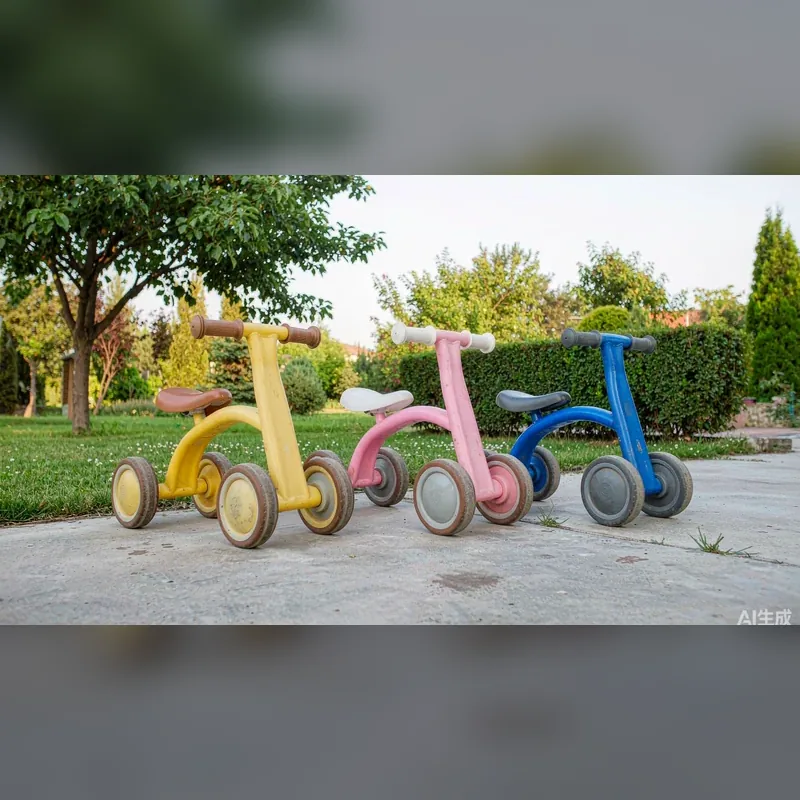
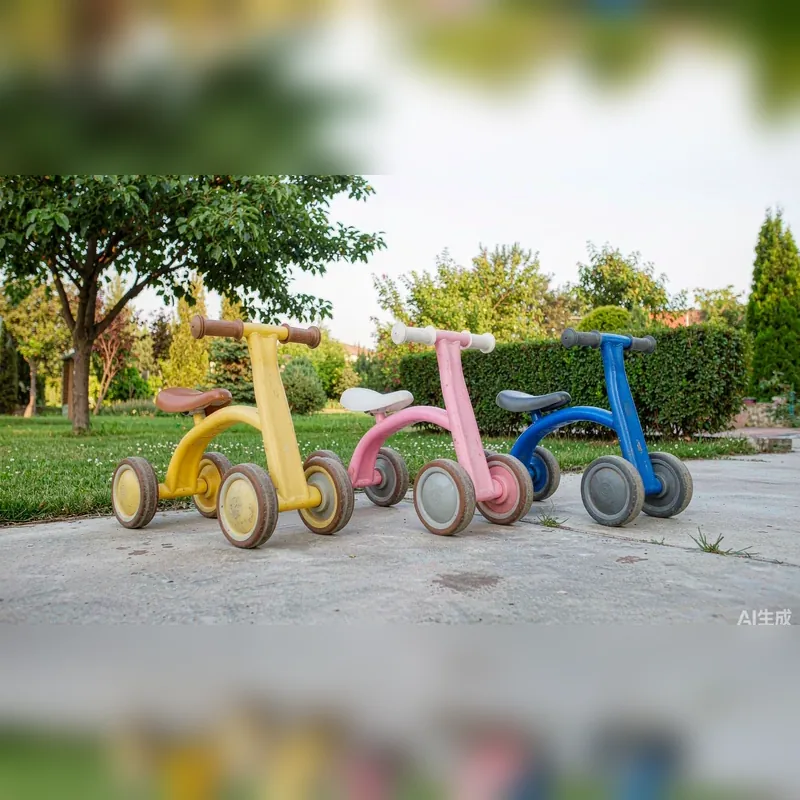
fix(images): never crop article art in the 1:1 frame
- News covers now fill the square with a mirror of the photo's own edge strip
  (blurred), instead of a scaled-cover bed: the sharp photo previously met a
  differently-framed blur at a hard horizontal seam, so every news cover read
  as though the top and bottom of the picture had been sliced off. The whole
  photo is preserved and the seam is gone.
- Article 1:1 frames use object-contain (SPA + prerender) so a square canvas
  can never crop the artwork; an off-square cover letterboxes instead.

diff --git a/scripts/prerender-pages.ts b/scripts/prerender-pages.ts
@@ -771,7 +771,9 @@ ${page.preloadImage ? `    <link rel="preload" as="image" href="${escapeHtml(pag
       /* Article card thumbnails. Every article list uses the same compact
          geometry as the SPA cards: a 1:1 side frame next to the text
          (104px on phones, up to 124px on wide screens). The covers are
-         800x800 squares, so object-cover fills the frame with no crop.
+         800x800 squares, so the frame is full; object-fit: contain guarantees
+         a 1:1 frame never crops the artwork (an off-square cover letterboxes
+         instead of being cut).
          Mirrors src/components/NewsSection.tsx and src/components/GuidesSection.tsx. */
       .article-card-thumb { flex: 0 0 clamp(96px, 22vw, 124px); }
       .article-card-thumb img { width: 100%; height: auto; aspect-ratio: 1 / 1; }
@@ -1042,7 +1044,7 @@ function renderZhHub(
       (item) => `
         <section class="article-card" style="padding: 14px 0; border-top: 1px solid #f1f5f9; display: flex; gap: 16px; align-items: flex-start;">
           ${item.image ? `<a class="article-card-thumb" href="${escapeHtml(item.path)}" style="display: block;">
-            <img src="${escapeHtml(item.image)}" alt="${escapeHtml(item.title)}" width="800" height="800" loading="lazy" decoding="async" style="width: 100%; height: auto; aspect-ratio: 1 / 1; object-fit: cover; border-radius: 10px; display: block;" />
+            <img src="${escapeHtml(item.image)}" alt="${escapeHtml(item.title)}" width="800" height="800" loading="lazy" decoding="async" style="width: 100%; height: auto; aspect-ratio: 1 / 1; object-fit: contain; border-radius: 10px; display: block;" />
           </a>` : ""}
           <div style="flex: 1 1 auto; min-width: 0;">
             <h2 style="margin: 0 0 8px; font-size: 1.05rem;"><a href="${escapeHtml(item.path)}">${escapeHtml(item.title)}</a></h2>
@@ -1679,7 +1681,7 @@ function renderGuideDetailPage(
         </p>
         ${summaryIntroHtml}
       </section>
-      ${image ? `<div style="padding: 0 0 18px;"><img src="${escapeHtml(image)}" alt="${escapeHtml(title)}" width="800" height="800" loading="eager" decoding="async" style="width: 100%; max-width: 384px; height: auto; aspect-ratio: 1 / 1; object-fit: cover; background: #ffffff; border-radius: 18px; border: 1px solid #e2e8f0; display: block;" /></div>` : ""}
+      ${image ? `<div style="padding: 0 0 18px;"><img src="${escapeHtml(image)}" alt="${escapeHtml(title)}" width="800" height="800" loading="eager" decoding="async" style="width: 100%; max-width: 384px; height: auto; aspect-ratio: 1 / 1; object-fit: contain; background: #ffffff; border-radius: 18px; border: 1px solid #e2e8f0; display: block;" /></div>` : ""}
       <section style="padding: 6px 0; border-top: 1px solid #e2e8f0;">
         ${renderRichContentHtml(content) || `<p style="margin: 0;">${escapeHtml(summary)}</p>`}
       </section>
@@ -1793,7 +1795,7 @@ function renderNewsDetailPage(
         <a href="${zh ? "/zh/news" : "/news"}">${zh ? ZH_ARTICLE_LABELS.newsHub : "News"}</a> › <a href="${zh ? `/zh/news/${escapeHtml(channel)}` : `/news/${escapeHtml(channel)}`}">${escapeHtml(channelLabel)}</a>
       </nav>
       ${image ? `<figure style="margin: 0 0 18px;">
-        <img src="${escapeHtml(image)}" alt="${escapeHtml(title)}" width="800" height="800" loading="eager" decoding="async" style="width: 100%; max-width: 384px; height: auto; aspect-ratio: 1 / 1; object-fit: cover; display: block; border-radius: 18px;" />
+        <img src="${escapeHtml(image)}" alt="${escapeHtml(title)}" width="800" height="800" loading="eager" decoding="async" style="width: 100%; max-width: 384px; height: auto; aspect-ratio: 1 / 1; object-fit: contain; display: block; border-radius: 18px;" />
       </figure>` : ""}
       <section style="padding: 4px 0 18px;">
         <p style="margin: 0 0 10px; font-size: 0.86rem; color: #475569; font-weight: 600;">
@@ -2134,7 +2136,7 @@ function renderGuidesPage(cmsGuides: CmsGuide[] = []): RoutePage {
         ${listedGuides.map((guide) => `
           <section class="article-card" style="padding: 14px 0; border-top: 1px solid #f1f5f9; display: flex; gap: 16px; align-items: flex-start;">
             ${guide.cover ? `<a class="article-card-thumb" href="${escapeHtml(new URL(guide.url).pathname)}" style="display: block;">
-              <img src="${escapeHtml(guide.cover)}" alt="${escapeHtml(guide.title)}" width="800" height="800" loading="lazy" decoding="async" style="width: 100%; height: auto; aspect-ratio: 1 / 1; object-fit: cover; background: #ffffff; border-radius: 10px; display: block;" />
+              <img src="${escapeHtml(guide.cover)}" alt="${escapeHtml(guide.title)}" width="800" height="800" loading="lazy" decoding="async" style="width: 100%; height: auto; aspect-ratio: 1 / 1; object-fit: contain; background: #ffffff; border-radius: 10px; display: block;" />
             </a>` : ""}
             <div style="flex: 1 1 auto; min-width: 0;">
               <h3 style="margin: 0 0 8px; font-size: 1.05rem;"><a href="${escapeHtml(new URL(guide.url).pathname)}">${escapeHtml(guide.title)}</a></h3>
@@ -2318,7 +2320,7 @@ function renderNewsPage(cmsNews: CmsNews[] = []): RoutePage {
         ${listedNews.map((item) => `
           <section class="article-card" style="padding: 14px 0; border-top: 1px solid #f1f5f9; display: flex; gap: 16px; align-items: flex-start;">
             ${item.cover ? `<a class="article-card-thumb" href="${escapeHtml(new URL(item.url).pathname)}" style="display: block;">
-              <img src="${escapeHtml(item.cover)}" alt="${escapeHtml(item.title)}" width="800" height="800" loading="lazy" decoding="async" style="width: 100%; height: auto; aspect-ratio: 1 / 1; object-fit: cover; border-radius: 10px; display: block;" />
+              <img src="${escapeHtml(item.cover)}" alt="${escapeHtml(item.title)}" width="800" height="800" loading="lazy" decoding="async" style="width: 100%; height: auto; aspect-ratio: 1 / 1; object-fit: contain; border-radius: 10px; display: block;" />
             </a>` : ""}
             <div style="flex: 1 1 auto; min-width: 0;">
               <h3 style="margin: 0 0 8px; font-size: 1.05rem;"><a href="${escapeHtml(new URL(item.url).pathname)}">${escapeHtml(item.title)}</a></h3>
@@ -2804,7 +2806,7 @@ function filterCardGrid(cards: FilterCard[], emptyNote: string): string {
             .map(
               (card) => `
             <a href="${escapeHtml(card.path)}" style="display: flex; gap: 12px; align-items: flex-start; border: 1px solid #e2e8f0; border-radius: 16px; padding: 14px; text-decoration: none; color: inherit; background: #ffffff;">
-              ${card.image ? `<span style="display: block; flex: 0 0 clamp(72px, 20vw, 108px);"><img src="${escapeHtml(card.image)}" alt="${escapeHtml(card.title)}" width="800" height="800" loading="lazy" decoding="async" style="width: 100%; height: auto; aspect-ratio: 1 / 1; object-fit: cover; background: #ffffff; border-radius: 10px; display: block;" /></span>` : ""}
+              ${card.image ? `<span style="display: block; flex: 0 0 clamp(72px, 20vw, 108px);"><img src="${escapeHtml(card.image)}" alt="${escapeHtml(card.title)}" width="800" height="800" loading="lazy" decoding="async" style="width: 100%; height: auto; aspect-ratio: 1 / 1; object-fit: contain; background: #ffffff; border-radius: 10px; display: block;" /></span>` : ""}
               <span style="display: block; flex: 1 1 auto; min-width: 0;">
                 <h3 style="margin: 0 0 8px; font-size: 1rem; color: #0f172a;">${escapeHtml(card.title)}</h3>
                 <p style="margin: 0 0 8px; font-size: 0.9rem; color: #334155;">${escapeHtml(card.summary)}</p>

diff --git a/src/components/GuidesSection.tsx b/src/components/GuidesSection.tsx
@@ -2102,7 +2102,7 @@ export default function GuidesSection({
                   height={800}
                   loading="eager"
                   decoding="async"
-                  className="w-full max-w-sm h-auto aspect-square object-cover bg-white rounded-3xl border border-slate-100 shadow-sm"
+                  className="w-full max-w-sm h-auto aspect-square object-contain bg-white rounded-3xl border border-slate-100 shadow-sm"
                   onError={(e) => { (e.currentTarget as HTMLImageElement).style.display = "none"; }}
                 />
               ) : null}
@@ -2476,8 +2476,10 @@ export default function GuidesSection({
                         cards use (104px on phones, 124px from sm up). The guide
                         covers are square product photos (800x800 now, cut from
                         the original 1500x1500 shot), so the image fills the
-                        frame with object-cover and the whole product - bars,
-                        seat, all four wheels - stays visible. */}
+                        frame and the whole product - bars, seat, all four
+                        wheels - stays visible. object-contain (not cover) is
+                        deliberate: a 1:1 frame must never crop the artwork, so
+                        even an off-square cover is letterboxed, never cut. */}
                     <div className="w-[104px] sm:w-[124px] shrink-0 self-start aspect-square rounded-2xl overflow-hidden border border-slate-100 bg-white flex items-center justify-center">
                       {cardImage ? (
                         <img
@@ -2487,7 +2489,7 @@ export default function GuidesSection({
                           height={800}
                           loading="lazy"
                           decoding="async"
-                          className="w-full h-full object-cover"
+                          className="w-full h-full object-contain"
                           onError={(e) => { (e.currentTarget as HTMLImageElement).style.display = "none"; }}
                         />
                       ) : (

diff --git a/src/components/NewsSection.tsx b/src/components/NewsSection.tsx
@@ -601,7 +601,7 @@ export default function NewsSection({
                     width={800}
                     height={800}
                     loading="eager"
-                    className="w-full h-auto aspect-square object-cover rounded-3xl border border-slate-100 shadow-sm"
+                    className="w-full h-auto aspect-square object-contain rounded-3xl border border-slate-100 shadow-sm"
                   />
                 </figure>
               );
@@ -895,7 +895,10 @@ export default function NewsSection({
                       The old code stretched this column to the height of the text
                       block, which cropped the 800x450 cover into a 110x171
                       sliver and squeezed the headline. The covers are now
-                      800x800 squares, so object-cover fills the frame exactly. */}
+                      800x800 squares whose top/bottom fill is a mirrored blur
+                      of the photo's own edges, so the frame is full and nothing
+                      is cut. object-contain keeps that guarantee explicit: a
+                      1:1 frame never crops the artwork, it letterboxes it. */}
                   <div className="w-[104px] sm:w-[124px] shrink-0 self-start aspect-square rounded-2xl overflow-hidden border border-slate-100 bg-slate-50 flex items-center justify-center">
                     {cardImage ? (
                       <img
@@ -905,7 +908,7 @@ export default function NewsSection({
                         height={800}
                         loading="lazy"
                         decoding="async"
-                        className="w-full h-full object-cover"
+                        className="w-full h-full object-contain"
                         onError={(e) => { (e.currentTarget as HTMLImageElement).style.display = "none"; }}
                       />
                     ) : (

diff --git a/scripts/publish-article-covers.py b/scripts/publish-article-covers.py
@@ -10,9 +10,11 @@ Why 1:1 and not 16:9:
 
   The news covers are 800x450 editorial photos. Cropping them to a square
   would slice the subject out of frame (a rider on the left, a bike on the
-  right). Instead they get the standard social treatment: the photo is scaled
-  to fit the full 800px width and centred on a blurred, darkened copy of
-  itself, so the canvas is 1:1 but nothing is cropped out of the picture.
+  right). Instead the photo is contained at full canvas width and the space
+  above/below is filled with a mirrored, blurred copy of the photo's own edge
+  strip, so the canvas is 1:1, nothing is cropped, and there is no hard seam
+  where the sharp photo meets the fill (the old scaled-cover bed drew a visible
+  line that looked like the picture had been cut).
 
 Outputs:
   guides -> public/images/guides/<slug>-800x800.webp   (from the ORIGINAL
@@ -83,35 +85,97 @@ def build_product_cover(raw, slug):
 def build_editorial_cover(raw, slug):
     """800x450 editorial photo -> an 800x800 canvas that keeps the whole photo.
 
-    The photo is scaled to the full canvas width and centred; the space above
-    and below is a blurred, darkened copy of the same frame. No pixel of the
-    subject is cropped away.
+    The photo is scaled to the full canvas width and centred. The space above
+    and below is filled with a *mirror of the photo's own edge strip*, blurred
+    into an out-of-focus continuation of the frame.
+
+    Why a mirror rather than the older "scaled-cover copy of the frame": the
+    scaled-cover bed showed a different (zoomed) crop at the seam, so the sharp
+    photo met a differently-framed blur and every cover carried a hard
+    horizontal line - it read as though the top and bottom of the picture had
+    been sliced off. Mirroring the edge strip means the row touching the photo
+    is pixel-identical to the photo's own first/last row, so the seam
+    disappears: nothing looks cut, and no pixel of the subject is cropped away.
     """
     with Image.open(io.BytesIO(raw)) as img:
         img = img.convert("RGB")
         w, h = img.size
 
-        # Background: the same frame, scaled to cover, then blurred and dimmed.
-        scale = max(TARGET / w, TARGET / h)
-        bg = img.resize((max(TARGET, int(round(w * scale))), max(TARGET, int(round(h * scale)))), Image.LANCZOS)
-        bg_w, bg_h = bg.size
-        bg = bg.crop(((bg_w - TARGET) // 2, (bg_h - TARGET) // 2, (bg_w - TARGET) // 2 + TARGET, (bg_h - TARGET) // 2 + TARGET))
-        bg = bg.filter(ImageFilter.GaussianBlur(radius=18)).convert("RGB")
-        bg = Image.blend(bg, Image.new("RGB", bg.size, (12, 16, 24)), 0.45)
-
-        # Foreground: the photo at full canvas width, centred vertically.
-        fg_w = TARGET
-        fg_h = max(1, int(round(h * (fg_w / w))))
+        # Fit the whole photo inside the square canvas (never crop it).
+        scale = min(TARGET / w, TARGET / h)
+        fg_w = max(1, int(round(w * scale)))
+        fg_h = max(1, int(round(h * scale)))
         fg = img.resize((fg_w, fg_h), Image.LANCZOS)
 
+        # Start from a stretched-blur of the frame so both bands always have
+        # colour even when a source is taller than it is wide.
+        bg = img.resize((TARGET, TARGET), Image.LANCZOS).filter(ImageFilter.GaussianBlur(radius=26))
+
         canvas = bg.copy()
-        canvas.paste(fg, (0, (TARGET - fg_h) // 2))
+        y0 = (TARGET - fg_h) // 2
+        x0 = (TARGET - fg_w) // 2
+
+        # --- top band: mirror the photo's top strip, blurred ---
+        if y0 > 0 and fg_h > 0:
+            strip = fg.crop((0, 0, fg_w, min(y0, fg_h))).transpose(Image.FLIP_TOP_BOTTOM)
+            if strip.height != y0:
+                strip = strip.resize((fg_w, y0), Image.LANCZOS)
+            strip = strip.filter(ImageFilter.GaussianBlur(radius=16))
+            canvas.paste(strip, (x0, 0))
+
+        # --- bottom band: mirror the photo's bottom strip, blurred ---
+        bottom_h = TARGET - (y0 + fg_h)
+        if bottom_h > 0 and fg_h > 0:
+            strip = fg.crop((0, fg_h - min(bottom_h, fg_h), fg_w, fg_h)).transpose(Image.FLIP_TOP_BOTTOM)
+            if strip.height != bottom_h:
+                strip = strip.resize((fg_w, bottom_h), Image.LANCZOS)
+            strip = strip.filter(ImageFilter.GaussianBlur(radius=16))
+            canvas.paste(strip, (x0, y0 + fg_h))
+
+        # Sharp photo on top; its edges blend straight into the mirrored blur.
+        canvas.paste(fg, (x0, y0))
         path = os.path.join(NEWS_OUT, f"{slug}-800x800.webp")
         canvas.save(path, "WEBP", quality=82, method=6)
     return path
 
 
+def rebuild_news_only():
+    """Rebuild just the news covers from SOURCE_MAP (no CMS, no token).
+
+    Used when only the compositing changed and the CMS already points at the
+    <slug>-800x800.webp filenames, so there is nothing to repoint.
+    """
+    os.makedirs(NEWS_OUT, exist_ok=True)
+    with open(SOURCE_MAP, encoding="utf-8") as fh:
+        news_sources = json.load(fh).get("news", {})
+    built, failed = 0, []
+    for slug, src in news_sources.items():
+        src = str(src or "").strip()
+        if not src:
+            failed.append(f"{slug}: no source URL")
+            continue
+        if src.startswith("/"):
+            src = "https://balancebiketoddler.com" + src
+        try:
+            data = http_get(src)
+            path = build_editorial_cover(data, slug)
+            print(f"  {os.path.basename(path)}  {os.path.getsize(path) / 1024:.0f}KB  <- {src[-52:]}")
+            built += 1
+        except Exception as exc:  # noqa: BLE001
+            failed.append(f"{slug}: {exc}")
+    print(f"\nnews rebuilt: {built}/{len(news_sources)}")
+    if failed:
+        print("FAILED:")
+        for f in failed:
+            print("  -", f)
+        return 1
+    return 0
+
+
 def main():
+    if "--news-only" in sys.argv:
+        return rebuild_news_only()
+
     token = os.environ.get("CMS_ADMIN_ALL_TOKEN", "")
     write = "--write" in sys.argv
     if not token:
